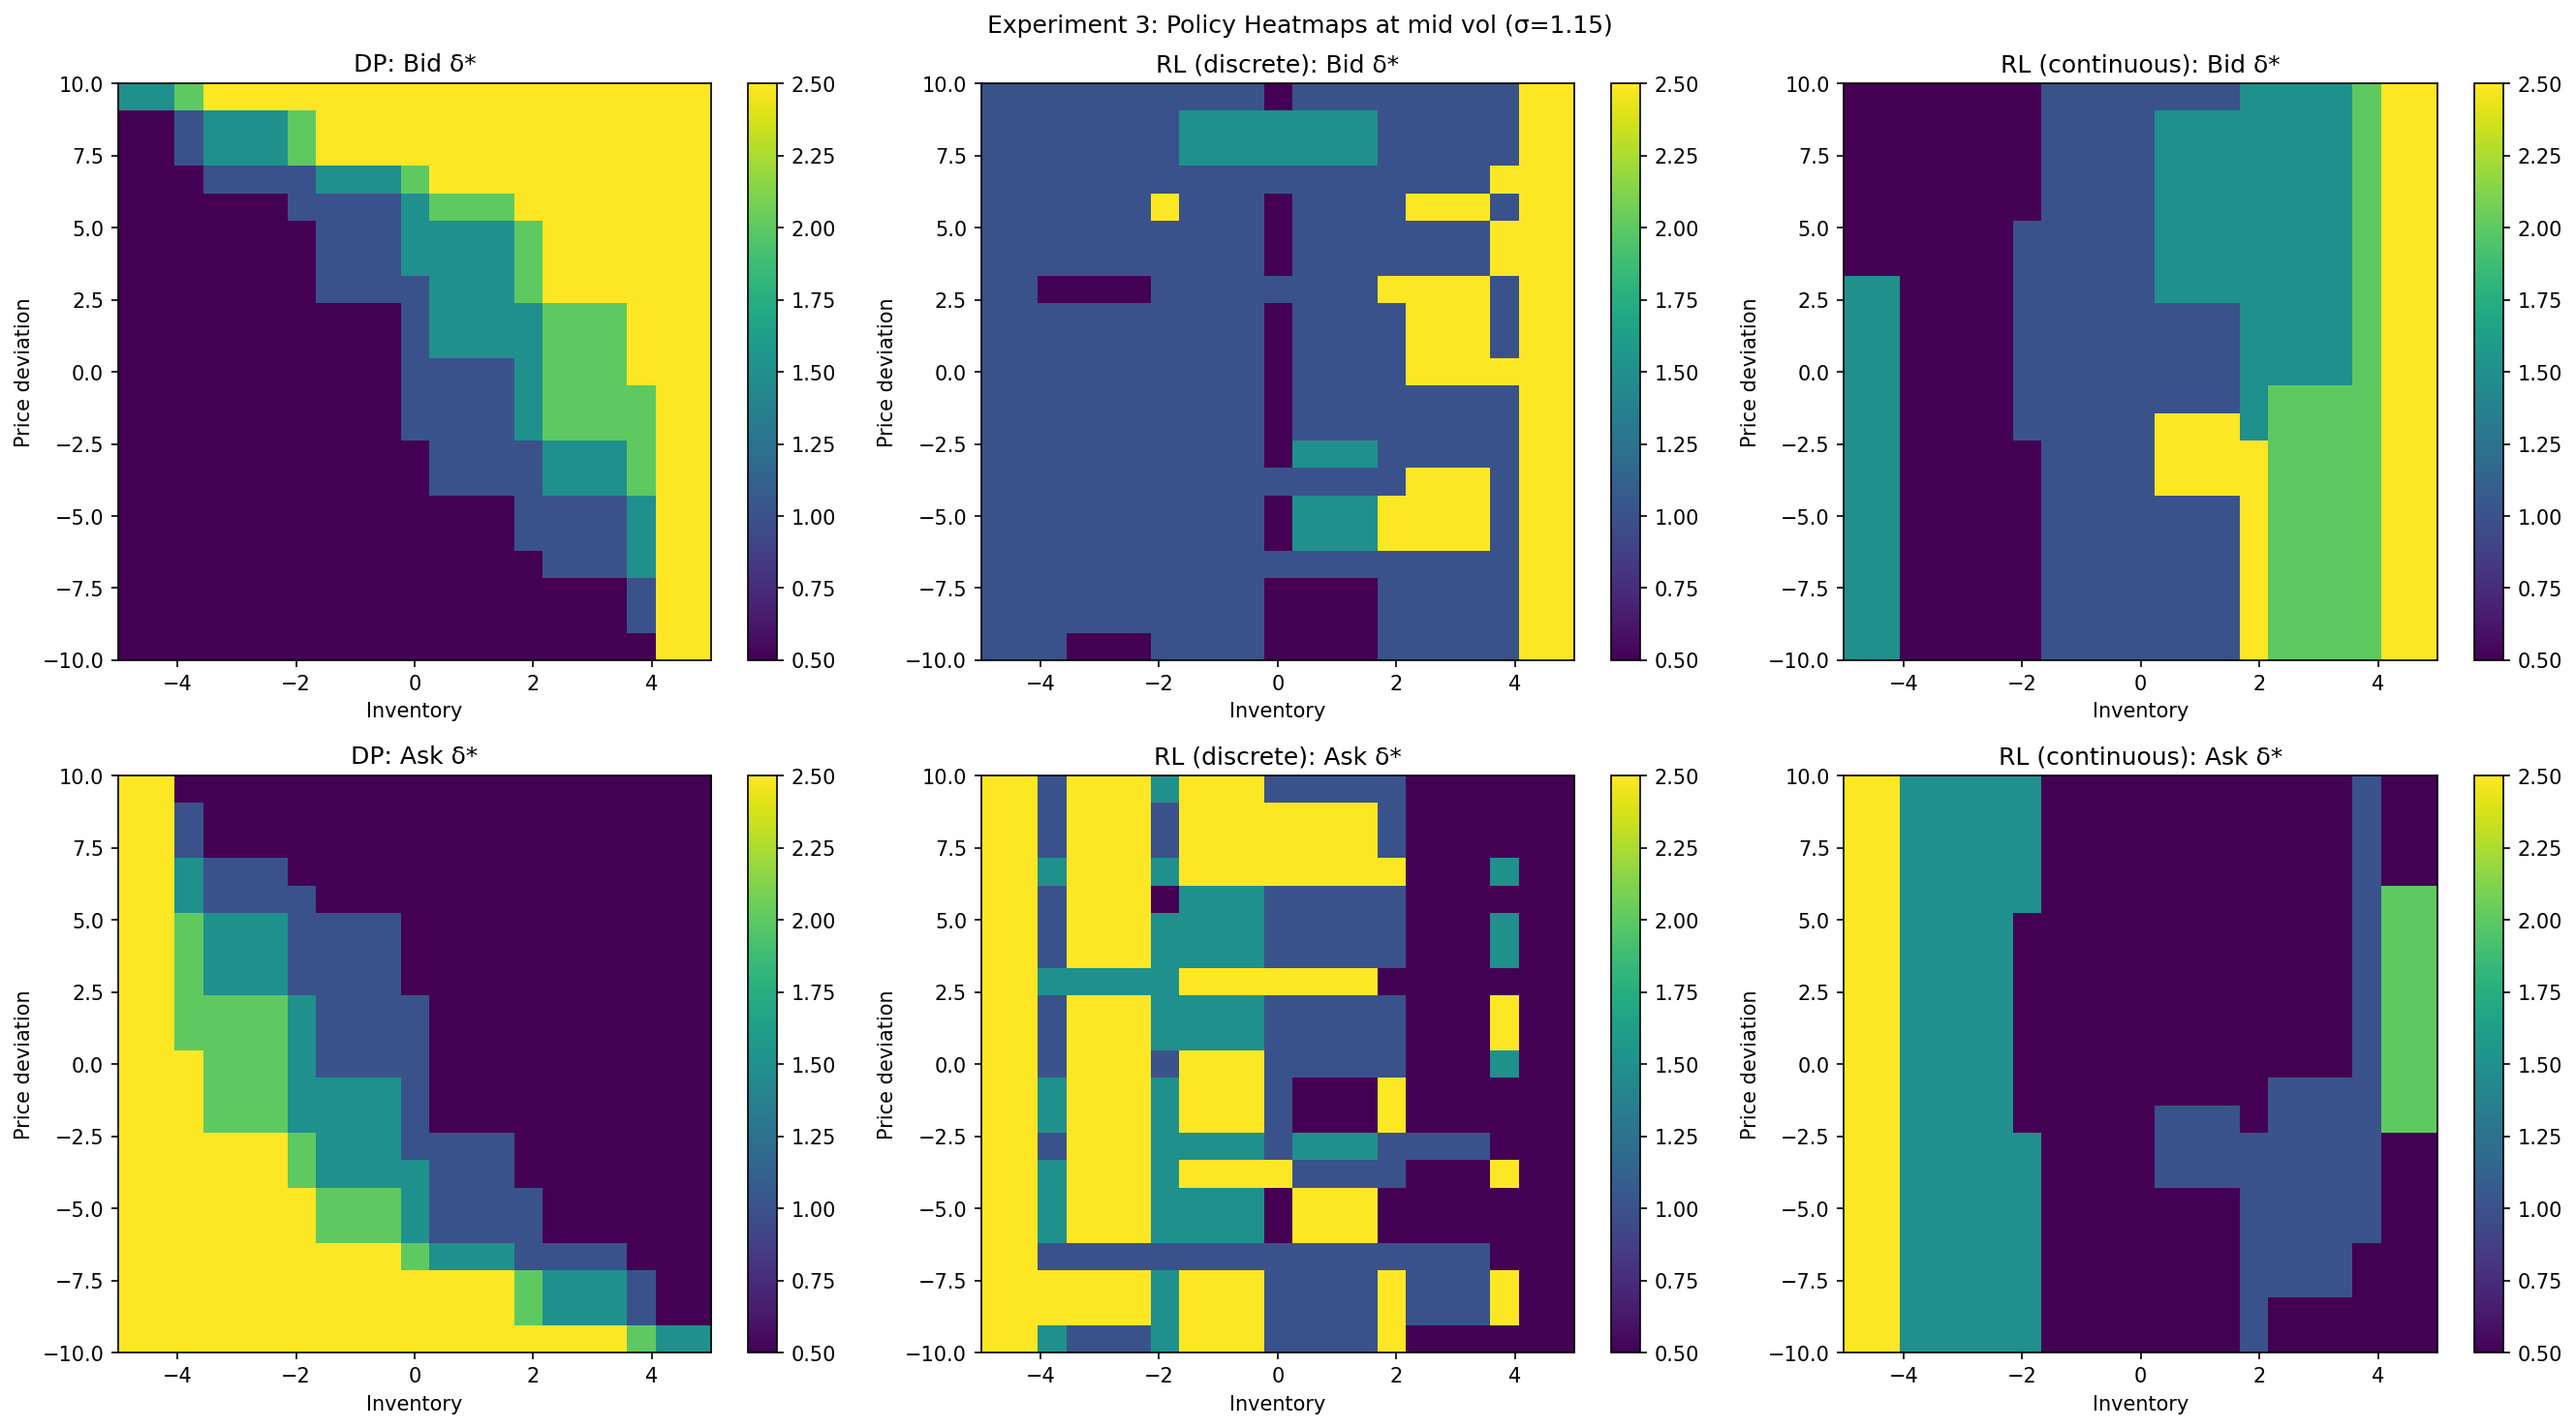
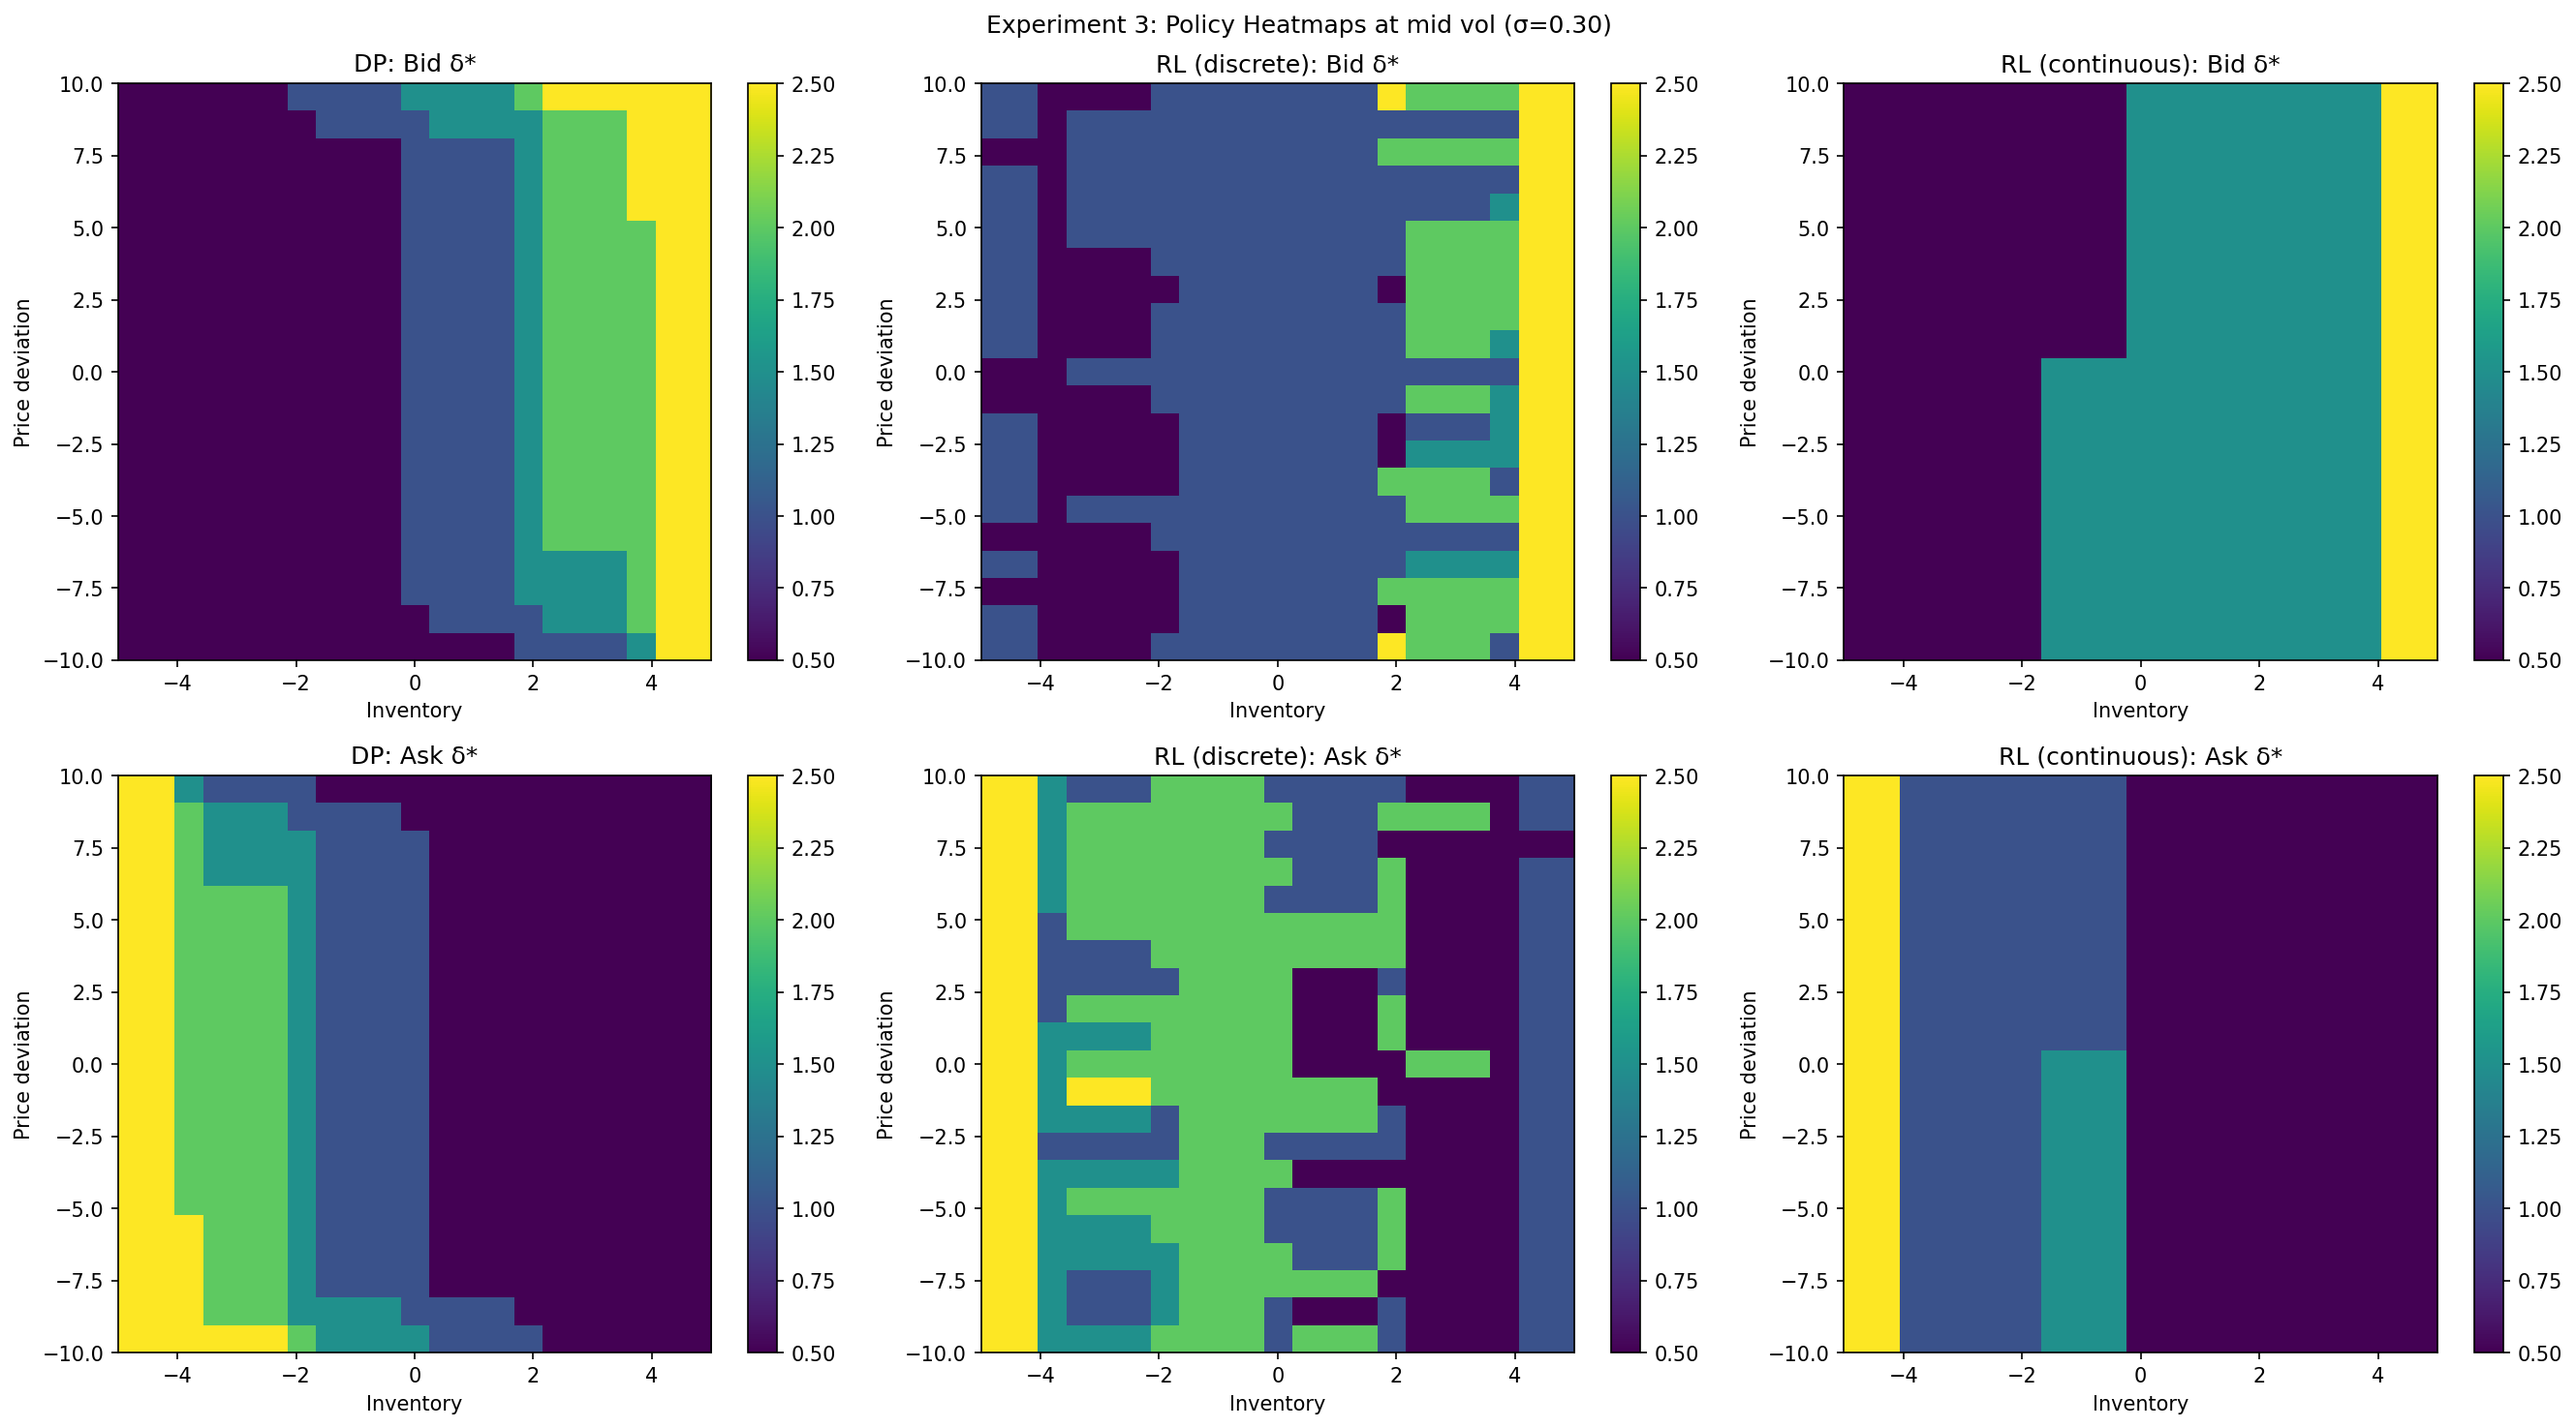
experiment 3 fixed

diff --git a/project/market_making/dp_solver.py b/project/market_making/dp_solver.py
@@ -364,13 +364,21 @@ def value_iteration_3d(
 
     shifts = sorted({-adv, 0.0, adv})
     T_price = {}
-    exp_dp = {}
+    _exp_dp_base = {}
     for vi in range(n_vol_bins):
         sig = vol_grid[vi]
         for s in shifts:
             Tp = _gaussian_transition_matrix(price_grid, s, sig)
             T_price[(vi, s)] = Tp
-            exp_dp[(vi, s)] = Tp @ price_grid - price_grid
+            _exp_dp_base[(vi, s)] = Tp @ price_grid - price_grid
+
+    # exp_dp_next[(vi, s)]: expected price change when current vol bin is vi,
+    # averaged over the next-period vol v' ~ T_vol[vi, :], because the env
+    # applies the OU update *before* the price step (so price uses vol_{t+1}).
+    exp_dp_next = {
+        (vi, s): sum(T_vol[vi, vp] * _exp_dp_base[(vp, s)] for vp in range(n_vol_bins))
+        for vi in range(n_vol_bins) for s in shifts
+    }
 
     V_next = np.zeros((n_inv, n_price_bins, n_vol_bins))
     for si in range(n_inv):
@@ -381,7 +389,18 @@ def value_iteration_3d(
     for t in range(T_horizon - 1, -1, -1):
         V_new = np.full_like(V_next, -np.inf)
 
-        EV_vol = np.einsum("ipw,vw->ipv", V_next, T_vol)
+        # EV_correct[s] shape (n_inv, n_price, n_vol_curr):
+        #   EV[si, p, vi] = sum_{v'} T_vol[vi,v'] * sum_{p'} T_price[(v',s)][p,p'] * V_next[si,p',v']
+        # This is correct because the env updates vol first, then moves price using vol_{t+1}.
+        EV_correct = {}
+        for s in shifts:
+            # A[v', si, p] = T_price[(v',s)] @ V_next[si,:,v']
+            # V_next[:,:,vp] has shape (n_inv, n_price); multiply by T_price[(vp,s)].T on the right
+            A_s = np.stack([V_next[:, :, vp] @ T_price[(vp, s)].T for vp in range(n_vol_bins)])
+            # A_s shape: (n_vol_next, n_inv, n_price)
+            # sum over v': EV[si,p,vi] = sum_{v'} T_vol[vi,v'] * A_s[v',si,p]
+            EV_correct[s] = np.einsum("vw,wip->ipv", T_vol, A_s)
+            # shape: (n_inv, n_price, n_vol_curr)
 
         for si in range(n_inv):
             I = params.index_to_inventory(si)
@@ -399,8 +418,8 @@ def value_iteration_3d(
 
                     def _q(s_next, shift, base_r, Iprime):
                         return (base_r
-                                + Iprime * exp_dp[(vi, shift)]
-                                + gamma * (T_price[(vi, shift)] @ EV_vol[s_next, :, vi]))
+                                + Iprime * exp_dp_next[(vi, shift)]
+                                + gamma * EV_correct[shift][s_next, :, vi])
 
                     if at_upper and at_lower:
                         Q = _q(si, 0.0, -alpha * I**2, I)

diff --git a/project/experiment3.py b/project/experiment3.py
@@ -18,7 +18,7 @@ SPREAD_OPTIONS = (0.5, 1.0, 1.5, 2.0, 2.5)
 N_PRICE_BINS = 21
 N_VOL_BINS = 15
 PRICE_HALF_RANGE = 10.0
-VOL_LO, VOL_HI = 0.3, 2.0
+VOL_LO, VOL_HI = 0.05, 0.55
 PRICE_SCALE = PRICE_HALF_RANGE
 SEED = 42
 EVAL_SEED = 123
@@ -63,7 +63,7 @@ def main():
         lr=2e-4, gamma=params.discount, batch_size=BATCH_TRAIN, hidden_dim=HIDDEN_TRAIN,
         learning_starts=5_000, tau=0.005, seed=SEED,
     )
-    agent_disc.train(train_env_disc, n_episodes=2000, epsilon_decay_steps=150_000, verbose=True)
+    agent_disc.train(train_env_disc, n_episodes=1500, epsilon_decay_steps=150_000, verbose=True)
 
     # ── RL Continuous ─────────────────────────────────────────────────
     print("\n[3/5] Training DQN (continuous state, vectorized) …")
@@ -80,7 +80,7 @@ def main():
         lr=2e-4, gamma=params.discount, batch_size=BATCH_TRAIN, hidden_dim=HIDDEN_TRAIN,
         learning_starts=5_000, tau=0.005, seed=SEED,
     )
-    agent_cont.train(train_env_cont, n_episodes=2000, epsilon_decay_steps=150_000, verbose=True)
+    agent_cont.train(train_env_cont, n_episodes=1500, epsilon_decay_steps=150_000, verbose=True)
 
     # ── Evaluate ───────────────────────────────────────────────────────
     print("\n[4/5] Evaluating (1 000 episodes each) …")

diff --git a/results/exp3_table.tex b/results/exp3_table.tex
@@ -1,0 +1,13 @@
+\begin{table}[h]
+\centering
+\begin{tabular}{lrrr}
+\toprule
+Metric & DP & RL (discrete) & RL (continuous) \\
+\midrule
+Mean Reward & 81.66 & 60.01 & 63.87 \\
+Std Reward & 12.28 & 15.03 & 14.15 \\
+\bottomrule
+\end{tabular}
+\caption{Experiment 3 (inventory + price + volatility state, OU dynamics): mean and standard deviation of episode reward over 1\,000 evaluation episodes. DP is optimal for the discretised MDP. RL (discrete) uses the same binned state; RL (continuous) uses exact floats.}
+\label{tab:exp3}
+\end{table}

diff --git a/project/market_making/params.py b/project/market_making/params.py
@@ -37,9 +37,9 @@ class MarketParams:
     sigma_base: float = 0.25
 
     # OU volatility dynamics (Phase 3 only)
-    vol_mean_reversion: float = 0.15
-    vol_long_run_mean: float = 1.0
-    vol_of_vol: float = 0.2
+    vol_mean_reversion: float = 0.03
+    vol_long_run_mean: float = 0.25
+    vol_of_vol: float = 0.03
 
     # ── Order arrival  λ(δ) = A · exp(−k · δ) ───────────────────────
     arrival_base: float = 0.5
